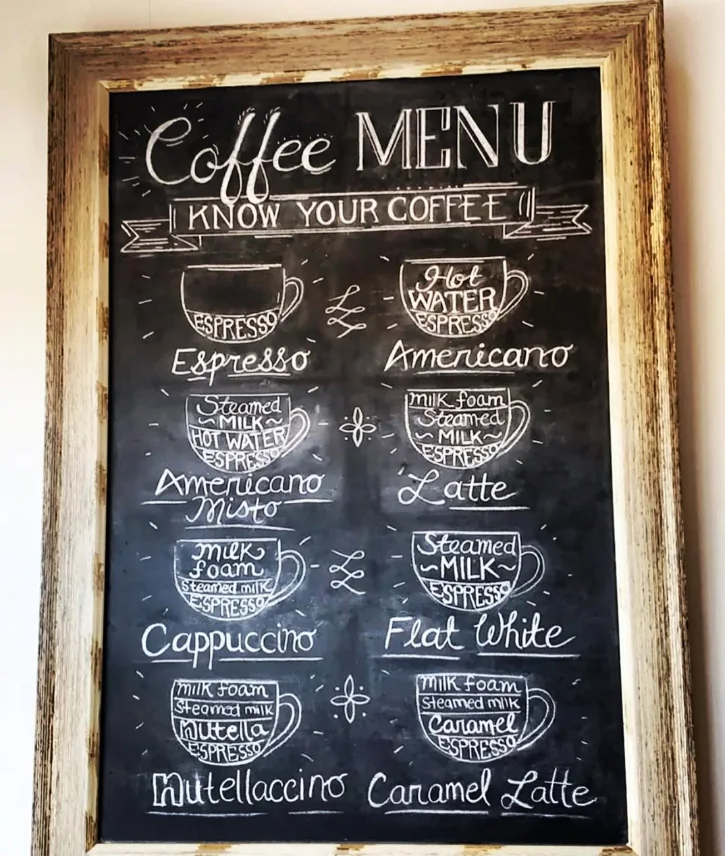
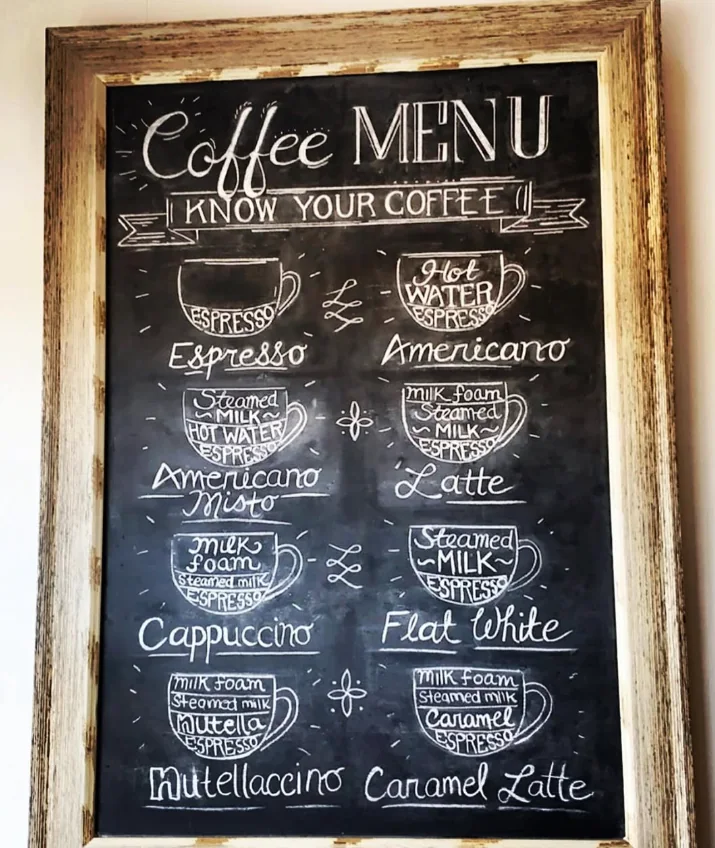
Add files via upload

diff --git a/index.html b/index.html
@@ -7,35 +7,58 @@
 <style>
 :root{--ink:#182a3c;--blue:#456c92;--muted:#5b6670;--line:#e5e9ec;--bg:#fff}*{box-sizing:border-box}html{scroll-behavior:smooth}body{margin:0;background:var(--bg);color:var(--ink);font-family:Arial,Helvetica,sans-serif;line-height:1.8}a{color:inherit}header{position:sticky;top:0;background:rgba(255,255,255,.96);border-bottom:1px solid var(--line);z-index:10}nav{max-width:1120px;margin:auto;display:flex;justify-content:space-between;align-items:center;padding:19px 28px;gap:20px}.brand{font-family:Georgia,serif;letter-spacing:.18em;text-decoration:none;font-size:14px;white-space:nowrap}.navlinks{display:flex;gap:26px}.navlinks a{text-decoration:none;text-transform:uppercase;letter-spacing:.13em;font-size:11px}.navlinks a:hover{color:var(--blue)}main{max-width:1120px;margin:auto;padding:0 28px}section{padding:110px 0;border-bottom:1px solid var(--line);scroll-margin-top:75px}.hero{min-height:680px;display:grid;grid-template-columns:1.3fr .7fr;align-items:center;gap:55px}.eyebrow{color:var(--blue);font-size:11px;letter-spacing:.27em;text-transform:uppercase;font-weight:600}.hero h1{font:normal clamp(66px,9vw,118px)/.98 Georgia,serif;letter-spacing:-.055em;margin:30px 0 24px}.hero h1 span{color:var(--blue)}.subhead{font-size:15px;letter-spacing:.025em}.intro{font-size:19px;color:var(--muted);max-width:650px;line-height:1.9}.portrait{width:100%;max-width:380px;aspect-ratio:1/1;object-fit:cover;object-position:center;display:block;border:1px solid #d9e1e8;box-shadow:0 18px 55px rgba(24,42,60,.08)}.section-title{font:normal clamp(35px,5vw,55px)/1.17 Georgia,serif;letter-spacing:-.035em;max-width:850px;margin:30px 0}.bodycopy{max-width:900px;font-size:17px;color:#46515b}.bodycopy p{margin:0 0 22px}.tags{display:flex;gap:10px;flex-wrap:wrap;margin-top:36px}.tag{padding:7px 12px;border:1px solid var(--line);font-size:12px;color:var(--blue)}.expertise{margin-top:35px}.expertise-item{display:grid;grid-template-columns:75px 1fr;gap:20px;border-top:1px solid var(--line);padding:30px 0}.num{font:italic 19px Georgia,serif;color:var(--blue)}h3{font:normal 25px Georgia,serif;margin:0 0 10px}.expertise-item p,.timeline p{margin:0;color:#56616a;font-size:15px;max-width:780px}.timeline{border-left:1px solid #d9e1e8;margin:40px 0 0 10px;padding-left:32px}.job{position:relative;margin:0 0 48px}.job:before{content:"";position:absolute;left:-38px;top:7px;width:10px;height:10px;background:var(--blue);border-radius:50%}.date{font-size:11px;letter-spacing:.18em;text-transform:uppercase;color:var(--blue);font-weight:600}.company{font-size:12px;letter-spacing:.09em;text-transform:uppercase;margin:0 0 10px;color:#596571}.education{margin-top:70px}.education-entry{margin-top:22px}.education-entry strong{display:block;font:normal 21px Georgia,serif}.education-entry span{color:var(--muted);font-size:14px}.contact{text-align:center;padding:120px 0}.contact p{color:var(--muted)}.contact-links{display:flex;justify-content:center;gap:20px;margin-top:32px;flex-wrap:wrap}.contact-links a{border:1px solid #bfcbd5;padding:10px 24px;text-decoration:none;font-size:13px}.contact-links a:hover{background:var(--ink);color:white}footer{text-align:center;padding:40px 20px;font-size:12px;letter-spacing:.08em;color:#6a747d}@media(max-width:760px){nav{align-items:flex-start;flex-direction:column;padding:17px 20px}.navlinks{gap:17px;flex-wrap:wrap}.navlinks a{font-size:10px}main{padding:0 20px}section{padding:75px 0}.hero{grid-template-columns:1fr;min-height:0;gap:35px;padding-top:85px}.hero h1{font-size:68px}.portrait{max-width:300px}.expertise-item{grid-template-columns:40px 1fr;gap:12px}.intro{font-size:17px}}
 
-/* Beyond work: quiet editorial photography section */
-.beyond-intro{display:grid;grid-template-columns:1.05fr .95fr;gap:65px;align-items:end;margin-bottom:44px}
-.beyond-intro .section-title{margin-bottom:14px}.beyond-intro p{font-size:17px;color:var(--muted);margin:0 0 6px;max-width:480px}
-.story-gallery{display:grid;grid-template-columns:1.15fr 1fr 1fr;gap:18px;align-items:start}
-.story-card{margin:0;min-width:0}.story-card img{display:block;width:100%;height:320px;object-fit:cover;background:#edf0ed;transition:transform .35s ease}.story-card .image-frame{overflow:hidden;background:#edf0ed}.story-card:hover img{transform:scale(1.025)}
-.story-card:first-child img{object-position:center 43%}.story-card:nth-child(2) img{object-position:center 48%}
-.story-card figcaption{padding:14px 0 0}.story-card figcaption strong{display:block;font:normal 21px Georgia,serif;line-height:1.3}.story-card figcaption span{display:block;color:var(--muted);font-size:13px;line-height:1.7;margin-top:5px}
-.beyond-note{border-top:1px solid var(--line);margin-top:38px;padding-top:22px;display:flex;justify-content:space-between;gap:24px;align-items:center;color:var(--muted);font-size:14px}
-.beyond-note a{font-size:12px;text-decoration:none;color:var(--blue);letter-spacing:.05em;white-space:nowrap}.beyond-note a:hover{text-decoration:underline}
-@media(max-width:850px){.beyond-intro{grid-template-columns:1fr;gap:5px}.story-gallery{grid-template-columns:repeat(2,minmax(0,1fr))}.story-card:first-child{grid-column:span 2}.story-card:first-child img{height:390px}.story-card img{height:270px}}
-@media(max-width:520px){.story-gallery{grid-template-columns:1fr;gap:26px}.story-card:first-child{grid-column:auto}.story-card img,.story-card:first-child img{height:auto;aspect-ratio:4/3;object-fit:cover}.beyond-note{align-items:flex-start;flex-direction:column;gap:10px}}
-@media(prefers-reduced-motion:reduce){.story-card img{transition:none}}
+/* Beyond Work — editorial gallery inspired by the approved mockup */
+#beyond{padding-top:100px}
+.beyond-layout{display:grid;grid-template-columns:1.07fr 1fr 1fr;gap:12px;align-items:stretch}
+.beyond-copy{padding:22px 20px 20px 0;display:flex;flex-direction:column;justify-content:center}
+.beyond-copy .section-title{font-size:clamp(35px,4vw,52px);line-height:1.16;margin:22px 0 24px}
+.beyond-copy p{color:#46515b;font-size:16px;line-height:1.8;margin:0}
+.interest-tags{display:flex;flex-wrap:wrap;gap:13px 20px;margin-top:30px;color:var(--ink);font-size:13px}
+.beyond-photo{display:block;overflow:hidden;margin:0;border-radius:10px;background:#f0f1ee;position:relative}
+.beyond-photo img{width:100%;height:100%;object-fit:cover;display:block;transition:transform .35s ease}
+.beyond-photo:hover img{transform:scale(1.035)}
+.beyond-top-photo{height:340px}
+.beyond-strip{display:grid;grid-template-columns:repeat(5,minmax(0,1fr));gap:10px;margin-top:12px}
+.beyond-strip .beyond-photo{height:235px}
+.beyond-photo.cafe img{object-position:center 42%}
+.beyond-photo.mug img{object-position:center 35%}
+.beyond-photo.forest img{object-position:center center}
+.beyond-photo.grogu img{object-position:center 55%}
+.beyond-photo.waterfront img{object-position:center 65%}
+.beyond-footer{border-top:1px solid var(--line);margin-top:34px;padding-top:20px;display:flex;justify-content:space-between;gap:20px;align-items:center;color:var(--muted);font-size:14px}
+.beyond-footer a{color:var(--blue);text-decoration:none;font-size:13px}
+.beyond-footer a:hover{text-decoration:underline}
+@media(max-width:850px){.beyond-layout{grid-template-columns:1fr 1fr}.beyond-copy{grid-column:1/-1;padding:0 0 15px}.beyond-top-photo{height:330px}.beyond-strip{grid-template-columns:repeat(3,minmax(0,1fr))}.beyond-strip .beyond-photo{height:235px}}
+@media(max-width:520px){.beyond-top-photo{height:235px}.beyond-strip{grid-template-columns:repeat(2,minmax(0,1fr))}.beyond-strip .beyond-photo{height:215px}.beyond-strip .beyond-photo:last-child{grid-column:1/-1;height:240px}.beyond-footer{align-items:flex-start;flex-direction:column}.interest-tags{gap:8px 14px}}
+@media(prefers-reduced-motion:reduce){.beyond-photo img{transition:none}}
 </style>
 </head>
 <body>
 <header><nav><a class="brand" href="#home">VANSHUL RATHORE</a><div class="navlinks"><a href="#about">About</a><a href="#expertise">Expertise</a><a href="#journey">Journey</a><a href="#beyond">Beyond Work</a><a href="#contact">Contact</a></div></nav></header>
 <main>
 <section id="home" class="hero"><div><div class="eyebrow">Head of Business Operations · Greater Toronto Area</div><h1>Vanshul<br><span>Rathore</span></h1><div class="subhead">Business Operations · Procurement · Supply Chain · E-Commerce</div><p class="intro">I work at the intersection of business operations, commercial strategy, and technology—bringing a practical, analytical approach to improving processes and helping organizations operate effectively.</p><a class="eyebrow" href="#about" style="display:inline-block;margin-top:20px;text-decoration:none">Explore my background ↓</a></div><img class="portrait" src="profile.jpg" alt="Professional portrait of Vanshul Rathore" width="400" height="400"></section>
-<section id="about"><div class="eyebrow">About</div><h2 class="section-title">Technology roots.<br>Business leadership.</h2><div class="bodycopy"><p>I have more than a decade of professional experience spanning enterprise technology and commercial business operations. At Omni Food Equipment, I progressed from an IT and communications role into management and ultimately Head of Business Operations.</p><p>My work has included international procurement, supplier relationships, inventory planning, logistics, pricing, e-commerce, and cross-functional operational coordination. Earlier in my career, I worked in enterprise technology supporting Oracle-based applications.</p><p>I value thoughtful analysis, practical execution, continuous improvement, and strong working relationships. I am based in the Greater Toronto Area, Canada.</p></div><div class="tags"><span class="tag">Business Operations</span><span class="tag">Procurement</span><span class="tag">Supplier Management</span><span class="tag">Supply Chain</span><span class="tag">Commercial Strategy</span><span class="tag">E-Commerce</span><span class="tag">Process Improvement</span></div></section>
+<section id="about"><div class="eyebrow">About</div><h2 class="section-title">Technology roots.<br>Business leadership.</h2><div class="bodycopy"><p>I have more than a decade of professional experience spanning enterprise technology and commercial business operations. At Omni Food Equipment, I progressed from an IT and communications role into management and ultimately Head of Business Operations.</p><p>My work has included international procurement, supplier relationships, inventory planning, logistics, pricing, e-commerce, and cross-functional operational coordination. Earlier in my career, I worked in enterprise technology supporting Oracle-based applications.</p><p>I value thoughtful analysis, practical execution, continuous improvement, and strong working relationships. I'm based in the Greater Toronto Area, Canada.</p></div><div class="tags"><span class="tag">Business Operations</span><span class="tag">Procurement</span><span class="tag">Supplier Management</span><span class="tag">Supply Chain</span><span class="tag">Commercial Strategy</span><span class="tag">E-Commerce</span><span class="tag">Process Improvement</span></div></section>
 <section id="expertise"><div class="eyebrow">Areas of Expertise</div><h2 class="section-title">Where strategy meets execution.</h2><div class="expertise"><div class="expertise-item"><div class="num">I</div><div><h3>Business Operations</h3><p>Coordinating procurement, sales, logistics, finance, and marketing to support reliable day-to-day execution and long-term operational improvements.</p></div></div><div class="expertise-item"><div class="num">II</div><div><h3>International Procurement & Supplier Management</h3><p>Planning overseas purchasing, negotiating with suppliers, and managing production timelines, pricing, and commercial terms.</p></div></div><div class="expertise-item"><div class="num">III</div><div><h3>Inventory Planning & Supply Chain</h3><p>Forecasting demand, balancing stock availability with purchasing decisions, and coordinating container logistics and landed costs.</p></div></div><div class="expertise-item"><div class="num">IV</div><div><h3>E-Commerce & Digital Commerce</h3><p>Managing Shopify product operations, pricing, promotions, and digital customer experience alongside marketing and growth initiatives.</p></div></div><div class="expertise-item"><div class="num">V</div><div><h3>Process Improvement</h3><p>Finding operational bottlenecks, improving workflows, and using technology and reporting to make teams more effective.</p></div></div><div class="expertise-item"><div class="num">VI</div><div><h3>Commercial Strategy & Pricing</h3><p>Supporting pricing decisions, planning, and operational forecasting with a focus on sustainable business performance.</p></div></div></div></section>
 <section id="journey"><div class="eyebrow">Professional Journey</div><h2 class="section-title">A career at the intersection of technology and business.</h2><div class="timeline"><div class="job"><div class="date">May 2025 – Present</div><h3>Head of Business Operations</h3><div class="company">Omni Food Equipment · Toronto, Ontario</div><p>Leading cross-functional business operations spanning procurement, supplier management, pricing, inventory planning, logistics, e-commerce, and team coordination.</p></div><div class="job"><div class="date">May 2021 – May 2025</div><h3>IT/Communications Manager</h3><div class="company">Omni Food Equipment · Toronto, Ontario</div><p>Managed purchasing and inventory planning, supported operational decisions, and coordinated supplier relationships, logistics, and commercial activities.</p></div><div class="job"><div class="date">September 2020 – May 2021</div><h3>IT/Communication Coordinator</h3><div class="company">Omni Food Equipment · Greater Toronto Area</div><p>Supported Shopify product content, pricing, digital marketing, communications, and internal systems.</p></div><div class="job"><div class="date">September 2019 – February 2020</div><h3>Sales & Marketing Representative</h3><div class="company">CPVM Group · Ontario</div><p>Worked across customer engagement, marketing processes, and CRM improvements.</p></div><div class="job"><div class="date">October 2014 – August 2016</div><h3>Senior Analyst</h3><div class="company">HCL Technologies · Noida, India</div><p>Supported enterprise technology and Oracle-based applications for international clients.</p></div></div><div class="education"><div class="eyebrow">Education</div><div class="education-entry"><strong>Global Business Management</strong><span>Humber College · 2017–2019 · GPA 3.7/4.0 · Dean’s Honours List</span></div><div class="education-entry"><strong>Bachelor of Technology (B.Tech.), Computer Science</strong><span>Ambedkar Institute of Advanced Communication Technologies and Research · 2010–2014</span></div></div></section>
 <section id="beyond" aria-labelledby="beyond-heading">
-<div class="beyond-intro"><div><div class="eyebrow">Beyond Work</div><h2 id="beyond-heading" class="section-title">A little more<br>about me.</h2></div><p>There's more to life than job titles and spreadsheets. Outside of work, I enjoy a good cup of coffee, time outdoors, exploring new places, and capturing moments worth remembering.</p></div>
-<div class="story-gallery">
-<figure class="story-card"><div class="image-frame"><img src="outdoors-yara.webp" alt="Vanshul enjoying a wooded trail with his dog Yara" loading="lazy" width="1200" height="1200"></div><figcaption><strong>Time outdoors</strong><span>Fresh air, forest trails, and time with Yara.</span></figcaption></figure>
-<figure class="story-card"><div class="image-frame"><img src="coffee-menu.webp" alt="Hand-lettered café chalkboard illustrating different coffee drinks" loading="lazy" width="1200" height="1200"></div><figcaption><strong>Always time for coffee</strong><span>A favourite ritual, wherever the day takes me.</span></figcaption></figure>
-<figure class="story-card"><div class="image-frame"><img src="autumn-moments.webp" alt="Vivid red autumn leaves along a quiet tree-lined street" loading="lazy" width="1200" height="1200"></div><figcaption><strong>The little details</strong><span>Places, seasons, and everyday scenes through my lens.</span></figcaption></figure>
+<div class="beyond-layout">
+  <div class="beyond-copy">
+    <div class="eyebrow">Beyond Work</div>
+    <h2 id="beyond-heading" class="section-title">The things that<br>keep me grounded.</h2>
+    <p>Outside of work, I enjoy good coffee, exploring new places, spending time outdoors, and capturing everyday moments. These are a few snapshots of what I love.</p>
+    <div class="interest-tags" aria-label="Personal interests"><span>☕ Coffee</span><span>△ Nature</span><span>▣ Photography</span><span>⌖ Exploring</span></div>
+  </div>
+  <figure class="beyond-photo beyond-top-photo cafe"><img src="cafe-portrait.webp" alt="Relaxing at an outdoor café" loading="lazy"></figure>
+  <figure class="beyond-photo beyond-top-photo mug"><img src="coffee-portrait.webp" alt="Enjoying a cup of coffee" loading="lazy"></figure>
 </div>
-<div class="beyond-note"><span>Curiosity doesn't stop when the workday ends.</span><a href="https://www.instagram.com/vanshul_rathore/" target="_blank" rel="noopener noreferrer" aria-label="Visit Vanshul's Instagram profile">A few more moments on Instagram ↗</a></div>
+<div class="beyond-strip" aria-label="Moments beyond work">
+  <figure class="beyond-photo forest"><img src="forest-yara.webp" alt="Enjoying a forest trail with Yara" loading="lazy"></figure>
+  <figure class="beyond-photo"><img src="coffee-menu.webp" alt="Hand-lettered coffee menu at a café" loading="lazy"></figure>
+  <figure class="beyond-photo grogu"><img src="grogu.webp" alt="Grogu the Scottish Fold cat" loading="lazy"></figure>
+  <figure class="beyond-photo waterfront"><img src="yara-waterfront.webp" alt="Yara by the waterfront" loading="lazy"></figure>
+  <figure class="beyond-photo"><img src="autumn.webp" alt="Brilliant red autumn leaves along a quiet street" loading="lazy"></figure>
+</div>
+<div class="beyond-footer"><span>Curiosity doesn't stop when the workday ends.</span><a href="https://www.instagram.com/vanshul_rathore/" target="_blank" rel="noopener noreferrer">More moments on Instagram ↗</a></div>
 </section>
 <section id="contact" class="contact"><div class="eyebrow">Contact</div><h2 class="section-title" style="margin-left:auto;margin-right:auto">Let's connect.</h2><p>Based in the Greater Toronto Area, Canada.</p><div class="contact-links"><a href="mailto:vanshulrathore@gmail.com">Email me ↗</a><a href="https://www.linkedin.com/in/vanshul-rathore" target="_blank" rel="noopener noreferrer">LinkedIn ↗</a></div><p><a href="mailto:vanshulrathore@gmail.com">vanshulrathore@gmail.com</a></p></section>
 </main><footer>VANSHUL RATHORE · © 2026</footer>
